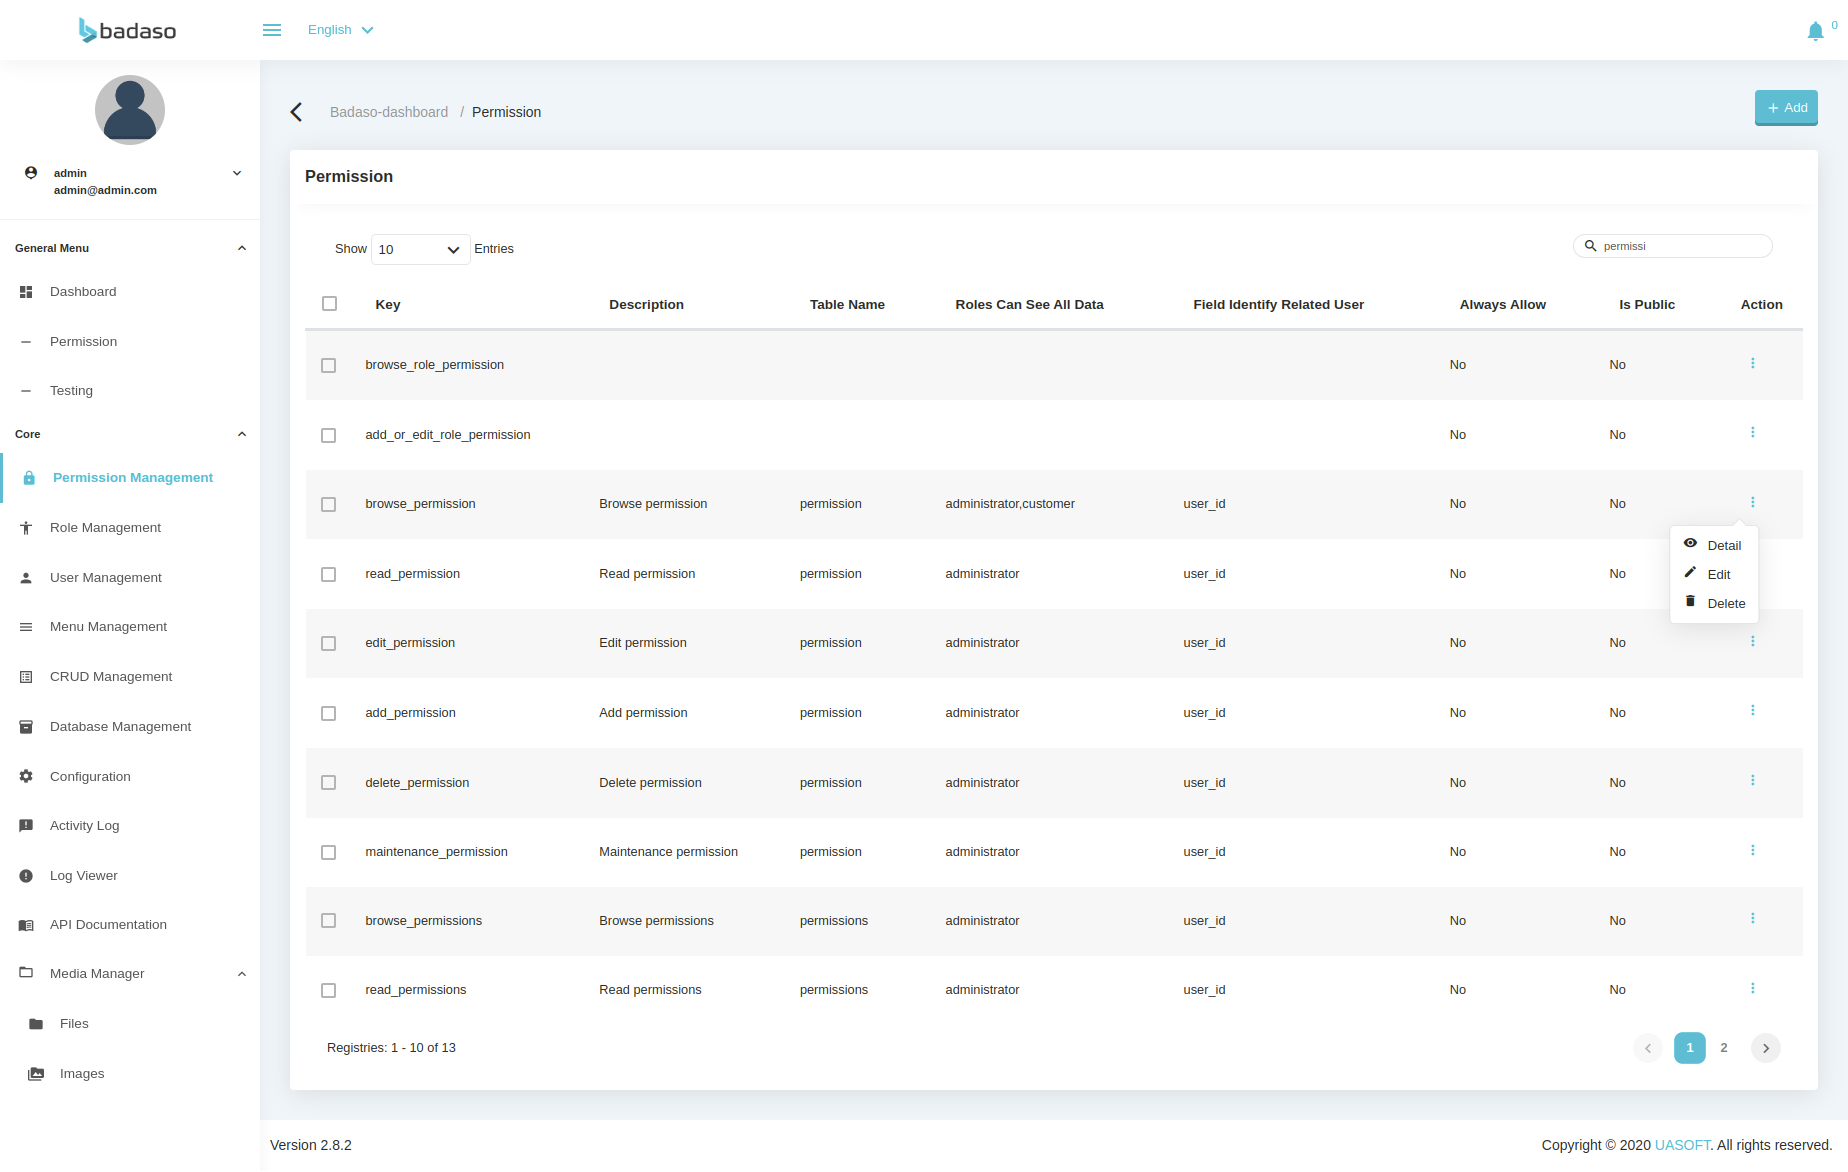
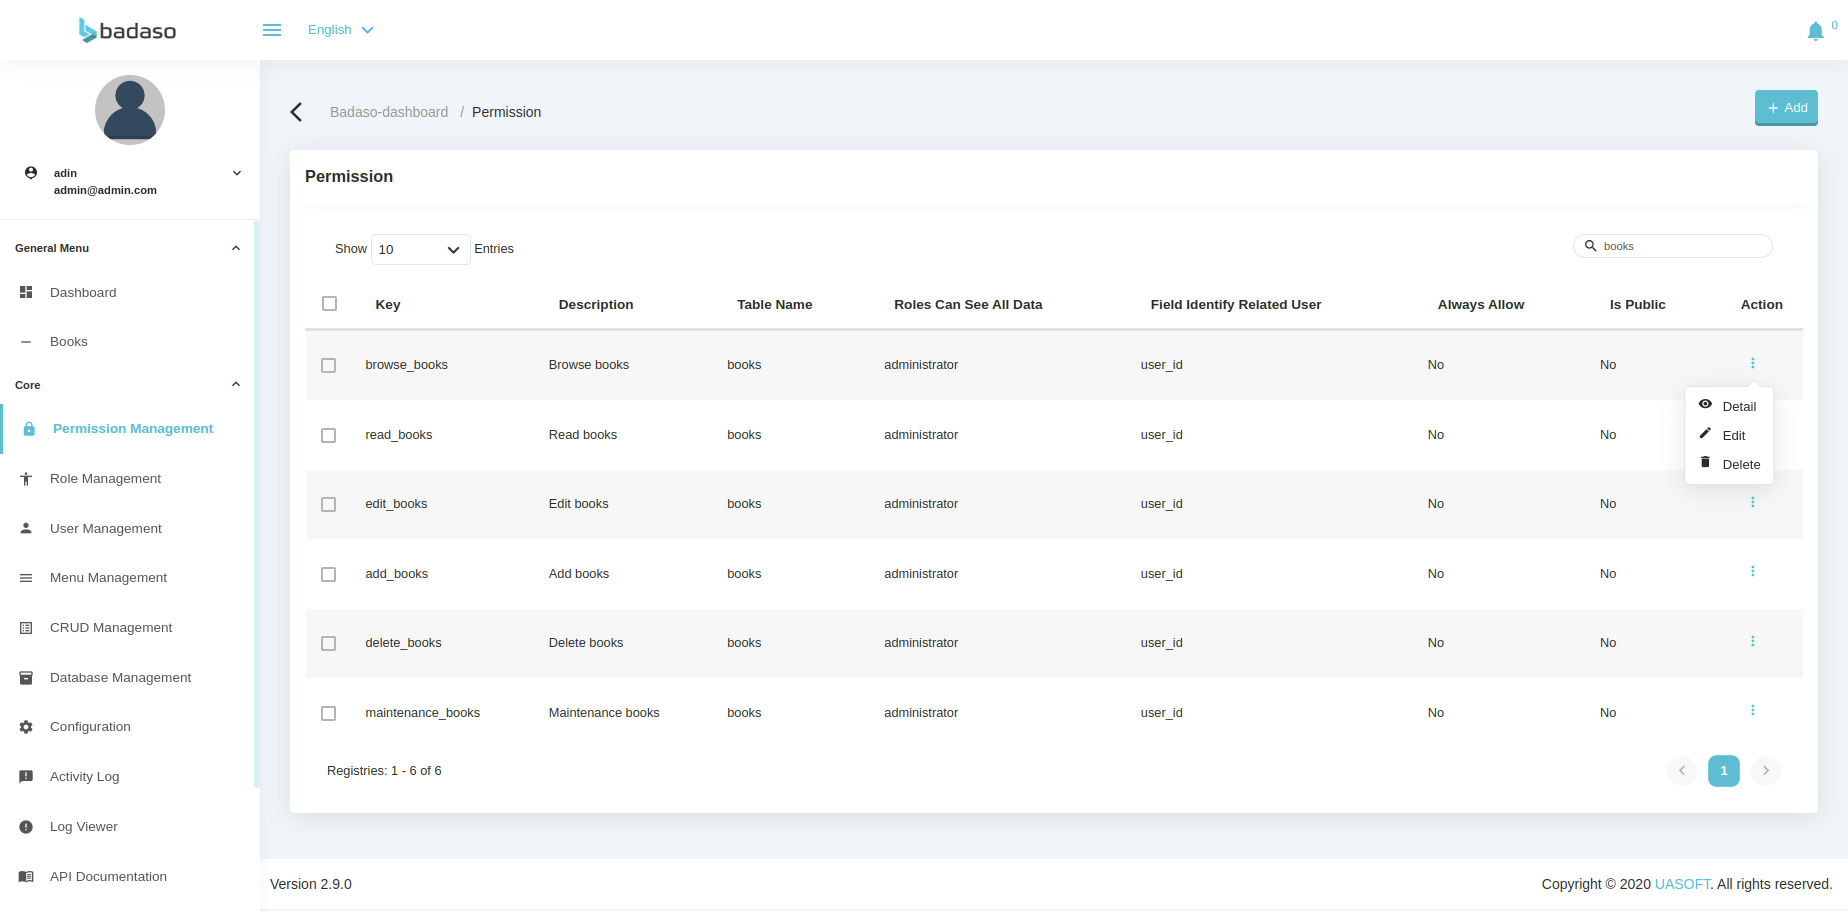
change example

diff --git a/i18n/id/docusaurus-plugin-content-docs/current/core-concept/role-and-permission.md b/i18n/id/docusaurus-plugin-content-docs/current/core-concept/role-and-permission.md
@@ -151,6 +151,29 @@ Terdapat 2 jenis permission helper di badaso, yaitu :
    <template>
    ```
 
+3. Permission untuk pengguna hanya dapat melihat data yang dibuat dengan sendirinya
+
+  Fitur ini berguna untuk mengamankan data masing-masing pengguna, pengguna hanya dapat melihat data yang mereka buat tanpa sepengetahuan pengguna lain. Secara default, fitur ini memungkinkan pengguna hanya melihat data mereka, kecuali administrator.
+
+  - Peran dapat melihat semua data
+
+    Role can see all data adalah opsi untuk melihat semua data. Nilai default adalah administrator. Peran yang tidak dipilih dalam menu ini hanya dapat melihat datanya sendiri.
+
+  - Kolom untuk mengidentifikasi data terkait pengguna
+
+    Kolom untuk mengidentifikasi data terkait pengguna adalah bidang yang memiliki hubungan dengan id pengguna pengguna. Input ini berguna untuk memisahkan data menurut pengguna yang membuatnya. nilai defaultnya adalah "user_id", jika tidak ada kolom "user_id" di tabel, pengguna dapat memilih kolom yang memiliki fungsi yang sama dengan kolom "user_id", jika kolom tersebut tidak ditemukan di tabel, semua pengguna data ditampilkan.
+
+  ### Contoh
+  Untuk menggunakan fitur tersebut, dapat mengikuti langkah-langkah di bawah ini:
+  - Sebelum menyetel "pengguna hanya dapat melihat data yang dibuat sendiri", harus menambahkan "books" ke peran yang ingin diberi akses kontrol. 
+  - Buka menu permission management, cari "browse_books" yang akan diubah lalu pilih edit.
+  ![Browse Permissionp Data Itself](/img/browse-permissionp-data-itself.png)
+  - Pada input "Role can see all data", pilih role yang bisa melihat semua data.
+  - Pada input "Column for identify user related data", pilih bidang yang menjadi bidang identifikasi yang terkait dengan id pengguna.
+  ![Edit Permission Data Itself](/img/edit-permission-data-itself.png)
+  - Untuk membuat CRUD dengan fitur ini, user_id atau semacamnya harus menggunakan input data "data identifier".
+  ![Data identifier](/img/data-identifier.png)
+
 ## Manajemen User Role
 
 Setiap user dapat memiliki minimal 1 atau lebih role. Berikut merupakan tampilan dari manajemen role untuk user.

diff --git a/docs/core-concept/role-and-permission.md b/docs/core-concept/role-and-permission.md
@@ -163,13 +163,13 @@ There are 2 kind of permission helpers at badaso :
 
     ### Example
     To use the feature, you can following the steps below:
-    - Before you set "user can only see data created by itself", you must add permissions to the roles you want to give control access to. 
-    - Open the permission management menu, look for the permissions to change then select edit.
+    - Before you set "user can only see data created by itself", you must add "books" to the roles you want to give control access to. 
+    - Open the permission management menu, look for the "browse_books" to change then select edit.
     ![Browse Permissionp Data Itself](/img/browse-permissionp-data-itself.png)
     - In the input "Role can see all data", select the role that can see all data.
     - In the "Column for identifying user related data" input, select the field that becomes the identify field related to the user id.
     ![Edit Permission Data Itself](/img/edit-permission-data-itself.png)
-    - To create a CRUD with this feature, the User must use the "data identifier" input data.
+    - To create a CRUD with this feature, the User_id or something like that must use the "data identifier" input data.
     ![Data identifier](/img/data-identifier.png)
     
     ## User Role Management
